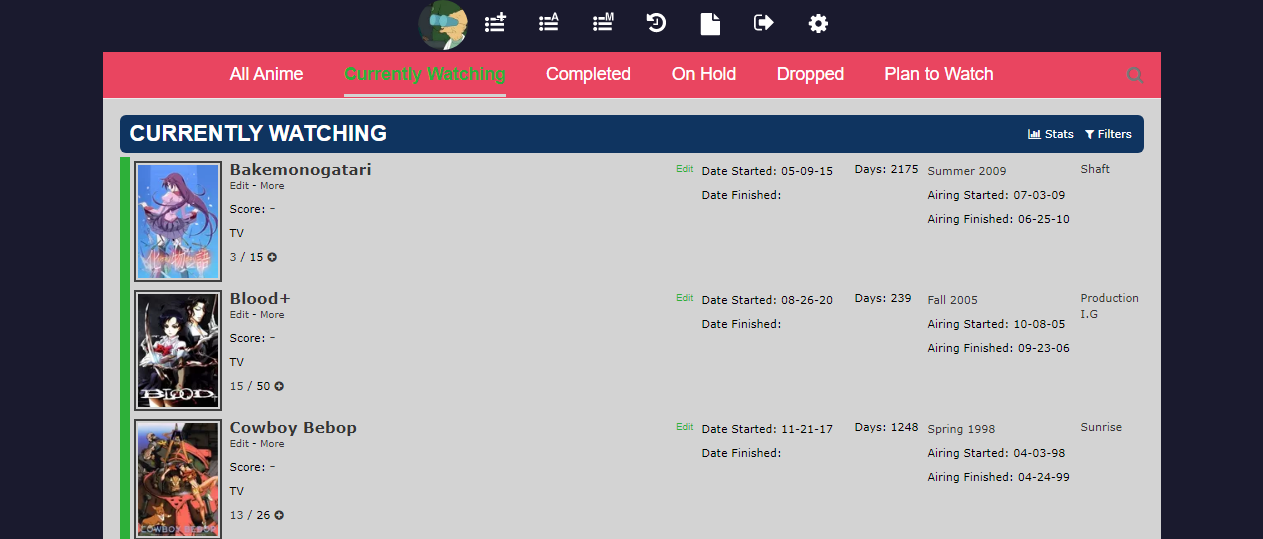
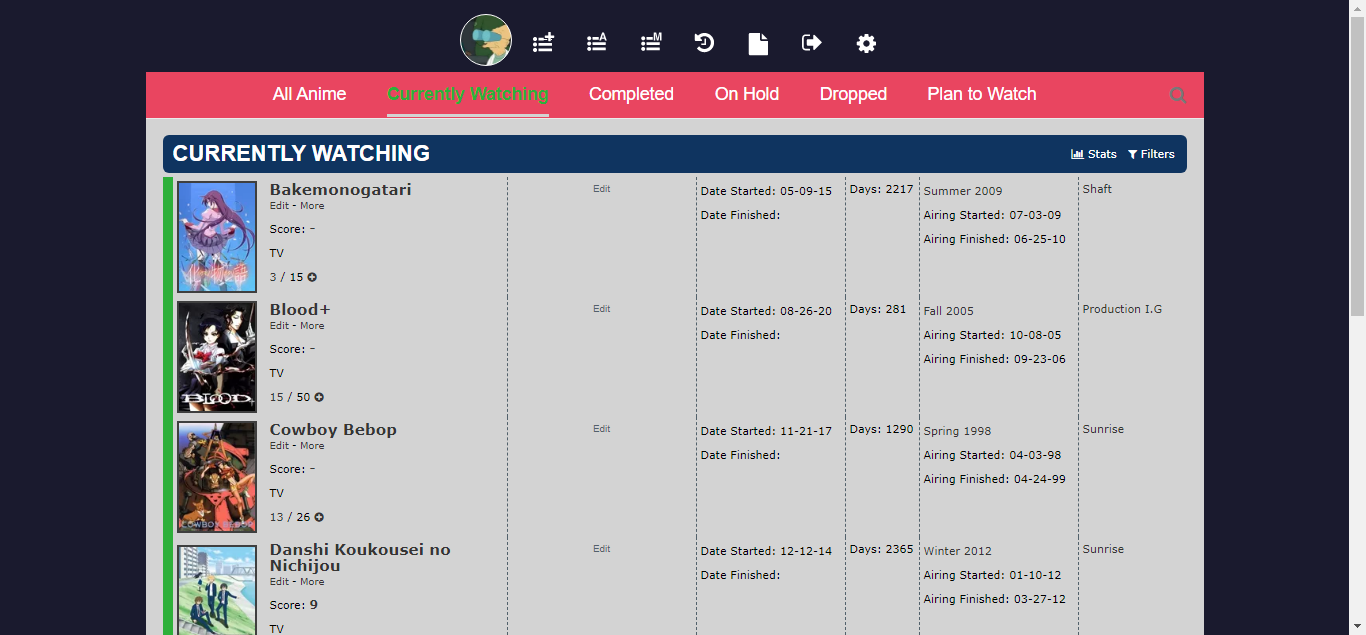
Design changed

diff --git a/ClearTheme.CSS b/ClearTheme.CSS
@@ -1,11 +1,11 @@
 a {
-	color: #363535;
+	color: #1e2022;
 	text-decoration: none;
 }
 
 body {
 	margin: 10px 0 0 0;
-	background-color: #1a1a2e;
+	background-color: #f0f5f9;
 }
 
 /* Form with Logout and Settings */
@@ -24,7 +24,7 @@ form {
 
 .list-container {
 	position: relative;
-	background-color: lightgrey;
+	background-color: #f0f5f9;
 	border: none;
 	width: 1058px;
 	margin-bottom: 0;
@@ -68,7 +68,12 @@ form {
 
 .list-menu-float .icon-menu svg.icon {
 	position: absolute;
-	fill: white;
+	fill: #52616b;
+}
+
+.list-menu-float .icon-menu:hover svg.icon {
+	position: absolute;
+	fill: #1e2022;
 }
 
 .list-menu-float .icon-menu .text {
@@ -77,7 +82,7 @@ form {
 	left: 40px;
 	width: 0;
 	display: inline-block;
-	color: #ffffff;
+	color: #52616b;
 	font-size: 1.4em;
 	font-family: 'Helvetica neue', Helvetica, "lucida grande", tahoma, verdana, arial, sans-serif;
 	text-align: center;
@@ -107,7 +112,7 @@ form {
 .list-menu-float .icon-menu.profile {
 	background-size: cover;
 	border-radius: 50%;
-	border: white 1px solid;
+	border: #c9d6df 3px solid;
 	margin: 4px;
 }
 
@@ -130,7 +135,7 @@ form {
 	height: 50px;
 	line-height: 50px;
 	text-decoration: none;
-	color: #ffffff;
+	color: #52616b;
 	opacity: 1;
 	background-color: transparent;
 }
@@ -153,7 +158,7 @@ form {
 }
 
 .list-table > tbody:nth-of-type(2n+1) {
-	background-color: lightgrey;
+	background-color: transparent;
 }
 
 .list-table .list-table-header {
@@ -198,10 +203,10 @@ form {
 
 .list-table .list-table-data .data.tags {
 	word-wrap: break-word;
-	text-align: left;
+	text-align: justify;
 	vertical-align: top;
-	border-left: 1px dashed #52616b;
-	border-right: 1px dashed #52616b;
+	border-left: 1px dashed #c9d6df;
+	border-right: 1px dashed #c9d6df;
 	width: 180px;
 }
 
@@ -230,8 +235,8 @@ form {
 .list-table .list-table-data .data.days {
 	vertical-align: top;
 	width: 65px;
-	border-left: 1px dashed #52616b;
-	border-right: 1px dashed #52616b;
+	border-left: 1px dashed #c9d6df;
+	border-right: 1px dashed #c9d6df;
 }
 
 .list-table .list-table-data .data.days:before {
@@ -246,6 +251,7 @@ form {
 
 .list-table .list-table-data .data.airing-started {
 	display: block;
+	width: 150px;
 }
 
 .list-table .list-table-data .data.airing-started:before {
@@ -262,13 +268,13 @@ form {
 
 .list-table .list-table-data .data.magazine {
 	vertical-align: top;
-	border-left: 1px dashed #52616b;
+	border-left: 1px dashed #c9d6df;
 	width: 100px;
 }
 
 .list-table .list-table-data .data.studio {
 	vertical-align: top;
-	border-left: 1px dashed #52616b;
+	border-left: 1px dashed #c9d6df;
 	width: 100px;
 }
 
@@ -276,7 +282,7 @@ form {
 .list-table .list-table-data .data.image .image {
 	width: 80px;
 	height: auto;
-	border: rgba(0, 0, 0, 0.7) 2px solid;
+	border: #c9d6df 3px solid;
 	box-sizing: border-box;
 	margin-right: 5px;
 }
@@ -325,7 +331,7 @@ form {
 .list-unit .list-status-title {
 	position: relative;
 	display: table;
-	background-color: #0f3460;
+	background-color: #52616b;
 	width: 1024px;
 	height: 38px;
 	margin-bottom: 4px;
@@ -348,7 +354,7 @@ form {
 .status-menu-container {
 	width: 1058px;
 	height: 46px;
-	background-color: #e94560;
+	background-color: #c9d6df;
 	z-index: 1;
 }
 
@@ -386,11 +392,11 @@ form {
 	text-align: center;
 	vertical-align: middle;
 	font-size: 1.6em;
-	color: white;
+	color: #52616b;
 }
 
 .status-menu-container .status-menu .status-button.on {
-	color: #2db039;
+	color: #52616b;
 	font-weight: bold;
 }
 

diff --git a/README.md b/README.md
@@ -2,29 +2,23 @@
 
 This is a minimalist design for MyAnimeList, focused in simplicity.
 
+Feel free to make recommendations and generate a ticket, or fork the project.  
+
 Tested in Edge navigator.
 
-##### Status: In progress
+### Project Status: Complete
 
 ## Features
-
-#### DONE
-* Put the info enlisted with a border.
-* Move the account lateral bar in the top of the page.
-* Support for anime/manga list.
-* Have a dark theme.
-
-#### TO DO
-* Change the animation in navigation bottoms
-    - Clear Theme
-    - ~~Dark theme~~
+- [x] Put the info enlisted with a border.
+- [x] Move the account lateral bar in the top of the page.
+- [x] Support for anime/manga list.
 
 ## Pallete tones 
 * Dark theme: https://colorhunt.co/palette/201882
-<!-- * Clear theme: https://colorhunt.co/palette/1649 -->
+* Clear theme: https://colorhunt.co/palette/1649 
 
 ## Image Preview
-* [White theme](WhiteTheme.CSS)
+* [Clear theme](ClearTheme.CSS)
 
     ![white](assets/White-theme-preview.png)
 
